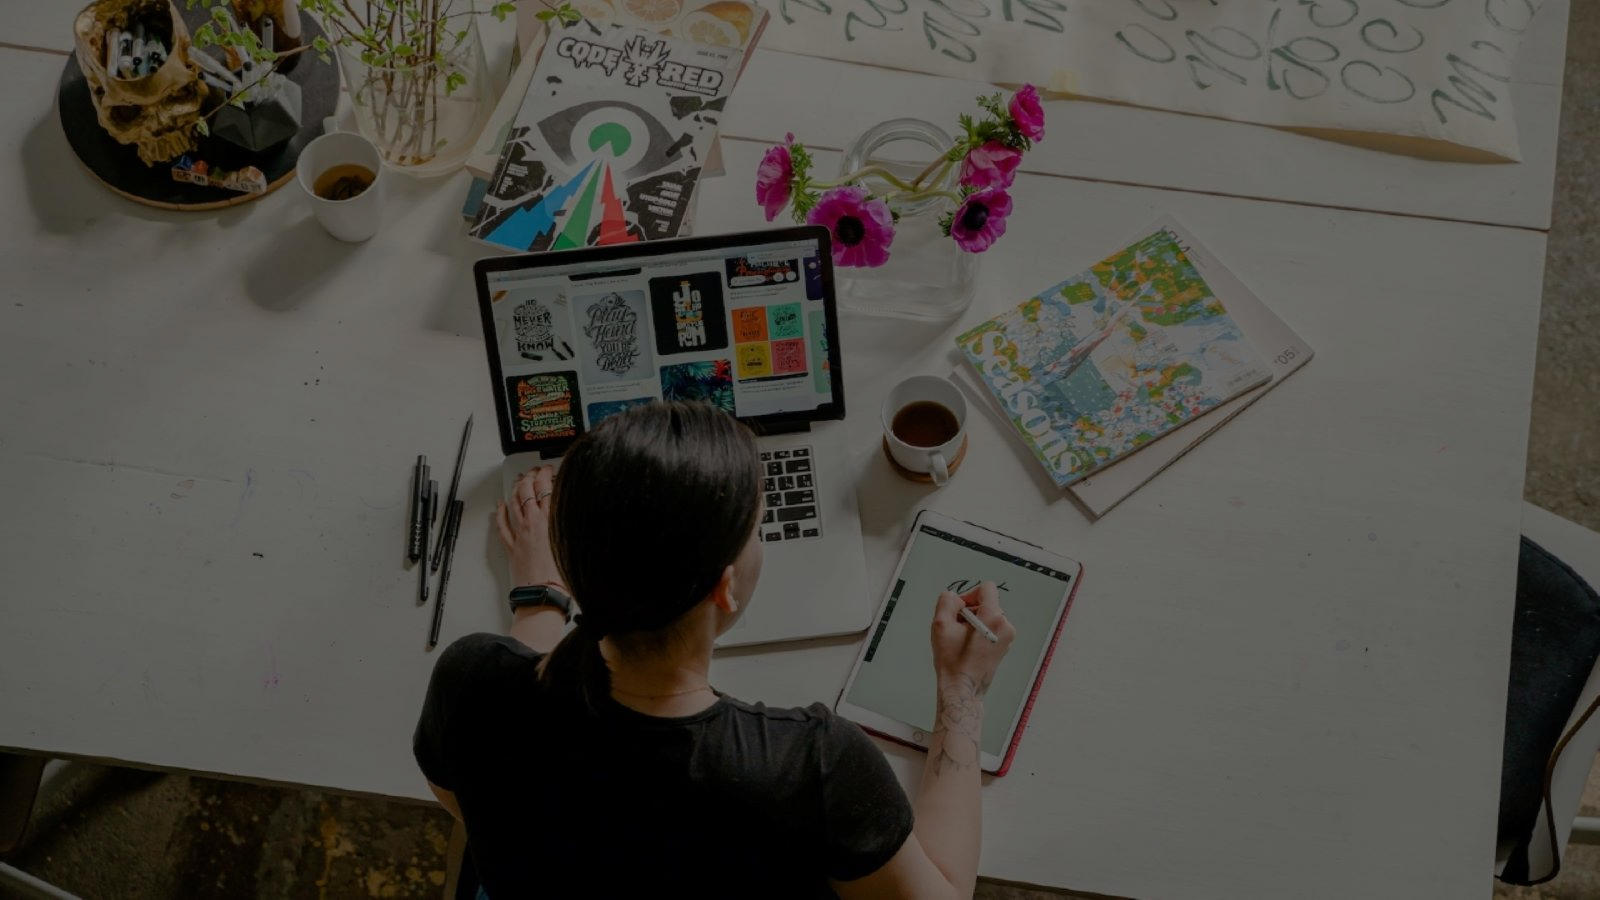
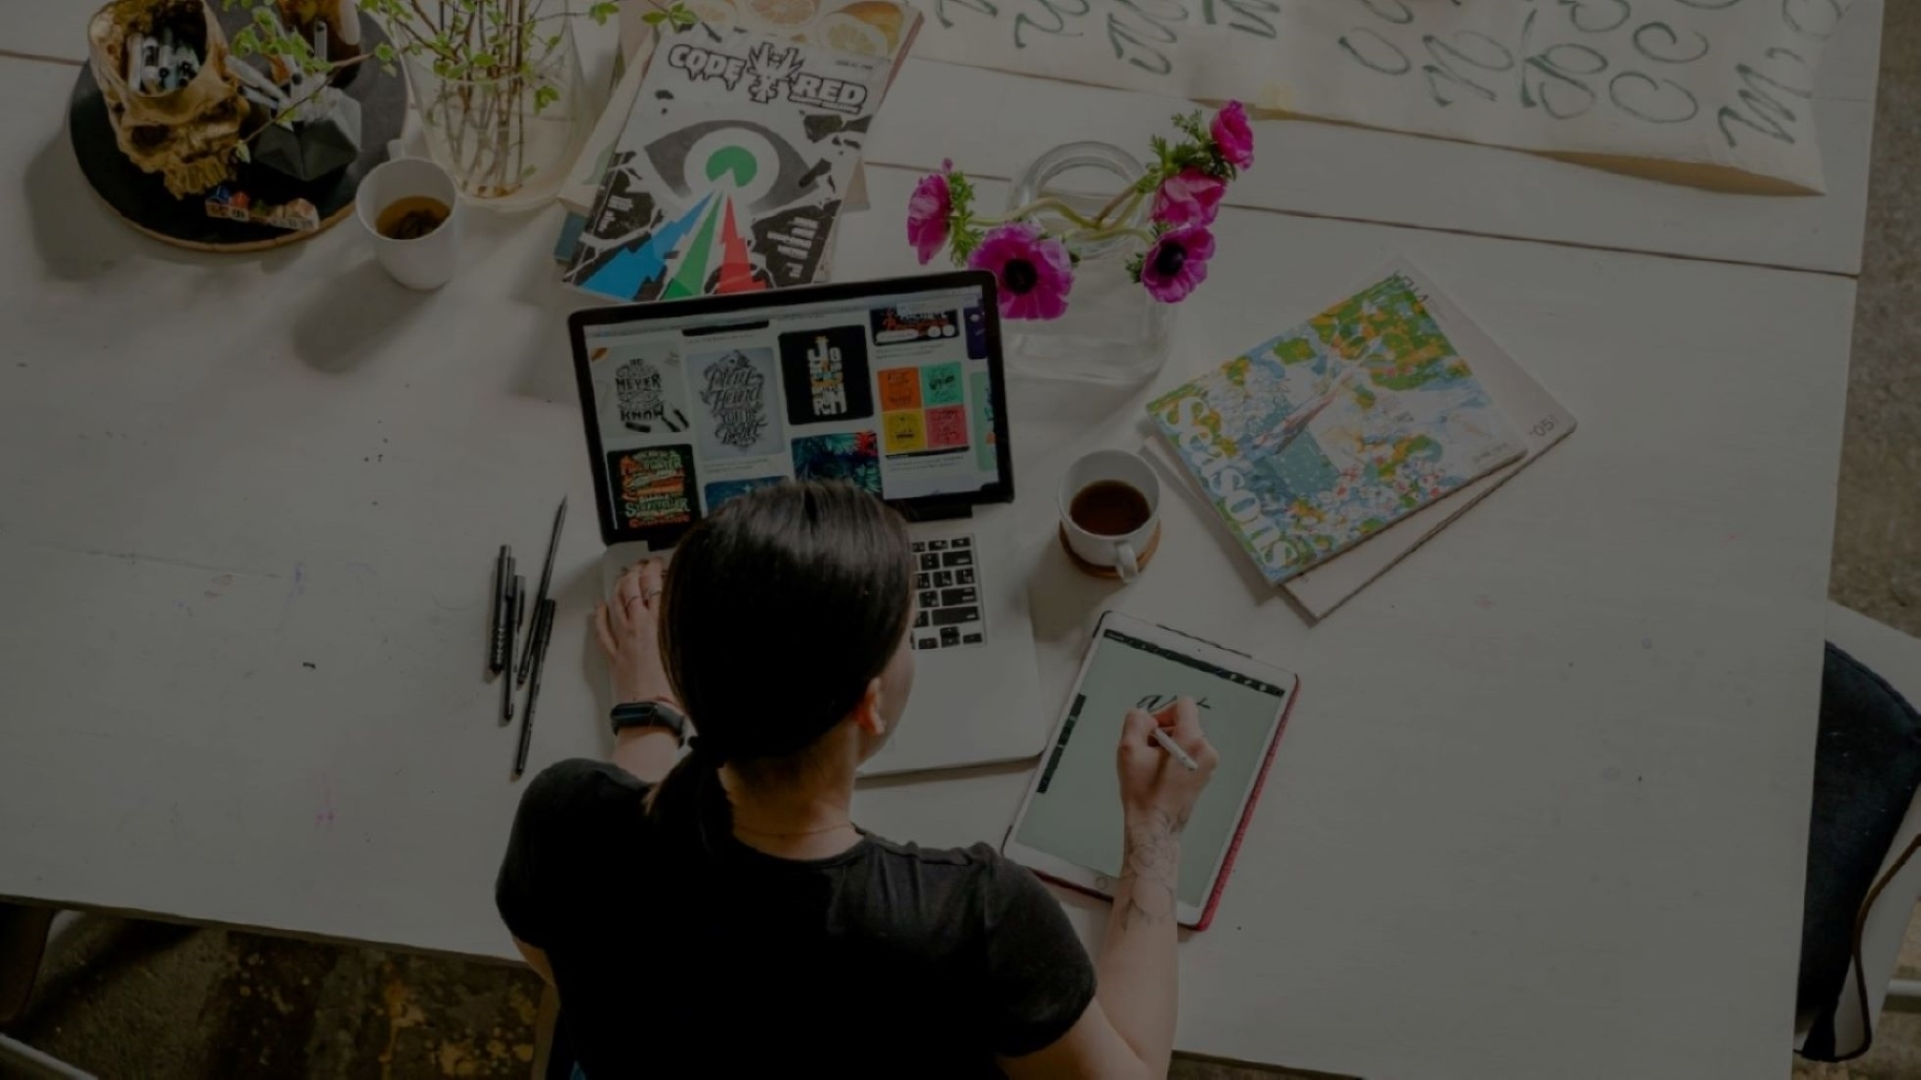
add add

Changed region(s): [[0.4688, 0.4978, 0.5, 0.5289], [0.3438, 0.2489, 0.375, 0.28]]

diff --git a/Contact.html b/Contact.html
@@ -10,7 +10,7 @@
     <title>Contact Me</title>
     <link rel="stylesheet" type="text/css" href="scroll.css">
 </head>
-        <body style="background-image: url( '/contactbg.jpg');">
+        <body style="background-image: url( '/contactbg.jpg'); background-repeat: no-repeat; background-position: center center; background-repeat: no-repeat; background-attachment: fixed; background-size: cover;">
            <!--  <The navigation menu> -->
             < <<div class="nav">
   <input type="checkbox" id="nav-check">
@@ -37,8 +37,10 @@
            <p>If you would like to learn more about me, request the worksheets and recommendation letter from Lancola tech during my work experience, you can reach out to me using the the social icons under my name &#x1F4F2</p>
 
         </div>
+    <div class="foot">
         <footer>
             <p>Copyright: Cyril Amir Mwambeyu &copy;2022</p>
         </footer>
+    </div>
 </body>
 </html>

diff --git a/style.css b/style.css
@@ -58,7 +58,6 @@ body{
     top: 0px;
     width: 100%;
     height: 8vh;
-    border: 2px solid #000000;
     background-color: #000000;
     float: left;
     text-align: left;
@@ -137,12 +136,12 @@ html{
     transition: 0.2s;
     font-size: 1.8rem;
 }
+}
 /*display: block;*/
 
 /* section 2 */
 #section-2{
     height: 500px;
-    text-align: center;
     text-decoration: none;
     padding-top: 28vh;
     padding-bottom: 20vh;
@@ -153,13 +152,19 @@ html{
     text-decoration: none;
     font-size: 2.8rem; 
     padding-bottom: 0;
+    text-align: center;
+
 }
 #section-2 p{
     font-size: 1.4rem;
     color: #fff;
+    text-align: center;
+
 }
 #section-2 a{
     font-size:1.4rem ;
+    text-align: center;
+
 }
 /*display: block;*/
 
@@ -289,6 +294,11 @@ html{
 }
 #section-6 p{
     font-size: 1.4rem;
+    color: #fff;
+}
+.foot p{
+    text-align: center;
+    font-size: 15px;
     color: #fff;
 }
 h2,.white{

diff --git a/About.html b/About.html
@@ -10,7 +10,8 @@
     <title>About Me</title>
     <link rel="stylesheet" type="text/css" href="scroll.css">
 </head>
-        <body style="background-image: url( '/aboutbg.jpg') ;">
+        <body style="background-image: url( '/aboutbg.jpg'); background-repeat: no-repeat; background-position: center center;
+  background-repeat: no-repeat; background-attachment: fixed; background-size: cover;">
            <!--  <The navigation menu> -->
              <<div class="nav">
   <input type="checkbox" id="nav-check">
@@ -36,7 +37,7 @@
            
            <h2>About</h2>
            <p><b>Hi there &#128512 , Welcome to this website all about me, feel free to scroll through, learn about me and my qualifications</b><p> 
-           <p>I am 15 years of age</p>
+           <p>I am 17 years of age</p>
            <p>Currently schooling at Gulab Lochab Academy, Eldoret </p>
            <p>I am aspiring web Developer</p>
 

diff --git a/mcbcjcbabc.html b/mcbcjcbabc.html
@@ -1,30 +1,4 @@
-.navbar{
-    position: fixed;
-    top: 0;
-    width: 100%;
-    border: 2px solid #000000;
-    background-color: #000000;
-}
-/*display: block;*/
-.navbar a{
-    float: left;
-    padding: 12px;
-    color: #ffffff;
-    text-decoration: none;
-    font-size: 18px;
-    width: 14.80%;
-    text-align: center;
-}
-/* animations / utilities */
-.navbar a:hover{
-    background-color: #999999;
-    font-size: 1.3rem;
-    cursor: pointer;
-    transition: 0.2s;
-}
-.active{
-    background-color: #004d4d;
-}
-}
-
-
+  background-position: center center;
+  background-repeat: no-repeat;
+  background-attachment: fixed;
+  background-size: cover;

diff --git a/Experience.html b/Experience.html
@@ -10,7 +10,7 @@
     <title>My Experience</title>
     <link rel="stylesheet" type="text/css" href="scroll.css">
 </head>
-        <body style="background-image: url( '/experiencebg.jpg');  background-repeat: no-repeat;">
+        <body style="background-image: url( '/experiencebg.jpg'); background-repeat: no-repeat; background-position: center center; background-repeat: no-repeat; background-attachment: fixed; background-size: cover;">
            <!--  <The navigation menu> -->
              <<div class="nav">
   <input type="checkbox" id="nav-check">

diff --git a/index.html b/index.html
@@ -9,7 +9,7 @@
     <title>Cyril Mwambeyu</title>
     <link rel="stylesheet" type="text/css" href="scroll.css">
 </head>
-        <body style="background-image: url('/indexbg.jpg'); background-repeat: no-repeat;">
+        <body style="background-image: url('/indexbg.jpg'); background-repeat: no-repeat; background-position: center center; background-repeat: no-repeat; background-attachment: fixed; background-size: cover;">
            <!--  <The navigation menu> -->
             <<div class="nav">
   <input type="checkbox" id="nav-check">

diff --git a/Skills.html b/Skills.html
@@ -10,7 +10,7 @@
     <title>My Skills</title>
     <link rel="stylesheet" type="text/css" href="scroll.css">
 </head>
-    <body style="background-image: url('/skillsbg.jpg'); background-repeat: no-repeat;">
+    <body style="background-image: url('/skillsbg.jpg'); background-repeat: no-repeat; background-position: center center; background-repeat: no-repeat; background-attachment: fixed; background-size: cover;">
            <!--  <The navigation menu> -->
             <<div class="nav">
   <input type="checkbox" id="nav-check">

diff --git a/Projects.html b/Projects.html
@@ -10,7 +10,7 @@
     <title>My Projects</title>
     <link rel="stylesheet" type="text/css" href="scroll.css">
 </head>
-        <body style="background-image: url( '/projectbg.jpg');">
+        <body style="background-image: url( '/projectbg.jpg'); background-repeat: no-repeat; background-position: center center; background-repeat: no-repeat; background-attachment: fixed; background-size: cover;">
            <!--  <The navigation menu> -->
              <<div class="nav">
   <input type="checkbox" id="nav-check">
